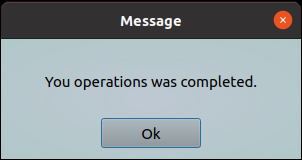
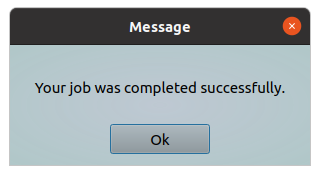
Improved documentation for show-message tool.

Changed region(s): [[0.0, 0.0, 1.0, 1.0], [0.0894, 0.4375, 0.894, 0.5625]]

diff --git a/doc/show-message.html b/doc/show-message.html
@@ -5,19 +5,19 @@
     <meta http-equiv="content-type" content="text/html">
     <meta name="author" content="Yuriy Lazutin" >
     <meta name="description" content="ytools - documentation">
-    <meta name="keywords" content="Yuriy Lazutin, ytools, you tools, programming">
+    <meta name="keywords" content="Yuriy Lazutin, ytools, your tools, programming">
     <meta name="revisit-after" content="7 days">
     <meta name="distribution" content="Global">
 <!--
     <meta name="robots" content="index,follow">
 -->
-    <title>ytools - this is you tools</title>
+    <title>ytools - this is your tools</title>
     <link rel="stylesheet" type="text/css" href="../index.css">
   </head>
   
   <body
     bgproperties="fixed"
-    onload="window.defaultStatus='ytools - this is you tools'"
+    onload="window.defaultStatus='ytools - this is your tools'"
     alink="#48298C"
     link="#48298C"
     vlink="#780078"
@@ -30,7 +30,7 @@
           <td style="width: 5%;"></td>
           <td style="width: 30%;"> <img src="ytools-header.png"></td>
           <td style="width: 5%;"></td>
-          <td><H1>- this is you tools</H1></td>
+          <td><H1>- this is your tools</H1></td>
           <td style="width: 5%;"></td>
         </tr>
       </table>
@@ -45,15 +45,77 @@
         <td valign="top" style="width: 68%; border-radius: 10px 10px; border: 1px solid black; padding: 20px;">
           <h2>ytools-show-message</h2>
           <article>
-            <p><span class="letter">T</span>his tool provide you a simple way to include message boxes into you shell scripts.
+            <p><span class="letter">T</span>his tool provide you a simple way to include message boxes into your shell scripts.
+             This tool will show a message box. Message text should be provided via command line.
+             You can show as a simple text messages, as a messages in html format.
             <br><br>
+            <h3>Options:</h3>
+            <table class="topt">
+              <tr><th style="width: 10%;">Short</th><th style="width: 25%;">Long</th><th>Description</th></tr>
+              <tr><td align="center">-h</td><td>--help</td><td>Will show help and exit</td></tr>
+              <tr><td align="center">-m</td><td>--message "Your text message"</td><td>Text string which will show in dialog (default "Message Text"). You can use HTML markup language for better view.</td></tr>
+              <tr><td align="center">-t</td><td>--dtitle "New dialog title"</td><td>A text string which will show in dialog header (default "Message").</td></tr>
+              <tr><td align="center">-b</td><td>--btntext "New button label"</td><td>"Ok" button will labeled with this text (default "Ok"). I.e. you can rename this button.</td></tr>
+              <tr><td align="center">-x</td><td>--sizex window_width</td><td>This parameter allow you to customize window width (default 300 pixels, minimum 300)</td></tr>
+              <tr><td align="center">-y</td><td>--sizey window_height</td><td>This parameter allow you to customize window height (default 120 pixels, minimum 120)</td></tr>
+            </table>
+            <br>
+            <h3>Examples:</h3>
+            <h4>Show a simple text message in dialog box</h4>
+            In this example we will show a simple text message.<br><br>
             <code>
-             #!/bin/bash<br>
-             # some actions here<br>
-             $(ytools-show-message --message "You operations was completed.")<br>           
+              <font class="code_comment">#!/bin/bash<br>
+              # some actions here<br></font>  
+              $(ytools-show-message --message "Your job was completed successfully.")<br>           
             </code>
             <br>As a result following window will appear:<br><br>
-            <img src="show-message-01.png" align="center">
+            <img src="show-message-01.png">
+            <br><br>
+            
+            <h4>Advanced using</h4>
+            In this example we will use a few abilities. We change dialog title, we will use a HTML in our message, and we will rename "Ok" button.<br><br>
+            <code>
+              <font class="code_comment">#!/bin/bash<br>
+              # some actions here<br></font>
+              $(ytools-show-message -t "I want to say you something..."  -m "&lt;b&gt;I notice,&lt;br&gt;that you are a very good person! &lt;/b&gt;" --btntext "I agree")<br>
+              <font class="code_comment"># other actions...<br></font>
+            </code>
+            <br>As a result following window will appear:<br><br>
+            <img src="show-message-02.png">
+            <br><br>
+            
+            <h4>Customizing window size</h4>
+            In this example, our message was too long to fit well in the window. We just set the correct size.<br><br>
+            <code>
+              <font class="code_comment">#!/bin/bash<br>
+              # some actions here<br></font>
+              $(ytools-show-message --sizex 600 --sizey 250 --message "&lt;h3&gt;Your operation was completed successfully.&lt;/h3&gt;Now you can safely pour yourself a cup of tea and enjoy the work done.&lt;br&gt;Thanks for using our program friend.&lt;br&gt;&lt;i&gt;(c) Your company dot com&lt;/i&gt;")<br>
+              <font class="code_comment"># other actions...<br></font>
+            </code>
+            <br>As a result following window will appear:<br><br>
+            <img src="show-message-03.png">
+            <br><br>
+
+            <h4>Show help</h4>
+            This command will show a help message.<br><br>
+            <code>
+              <br>
+              ytools-show-message --help<br>
+              <br>
+            </code>
+            <br>As a result following information will shown:<br><br>
+<pre style="white-space: pre-wrap; font-family: Courier;">
+*** ytools-show-message - simple program which show dialog with custom text message. ***
+
+Usage: ./ytools-show-message [options] 
+  -h, --help                         Display this help and exit.
+  -m, --message "Text message"       Text string which will show in dialog (default "Message Text"). You can use HTML markup language for better view.
+  -t, --dtitle "Dialog title"        This text will show in dialog header (default "Message").
+  -b, --btntext "Ok"                 Button will labeled with this text (default "Ok").
+  -x, --sizex window_width           This parameter allow you to customize window width (default 300 pixels, minimum 300).
+  -y, --sizey window_height          This parameter allow you to customize window height (default 120 pixels, minimum 120).
+</pre>
+           
           </article>    
         </td>
         <td style="width: 10%;"></td>

diff --git a/index.css b/index.css
@@ -68,6 +68,16 @@ code{
   text-shadow: 0 0 0;
 }
 
+.code_comment {
+  color: rgb(0, 64, 0);
+}
+
+img {
+  display: block;
+  margin-left: auto;
+  margin-right: auto
+}
+    
 footer {
   display:block;
   clear:both;
